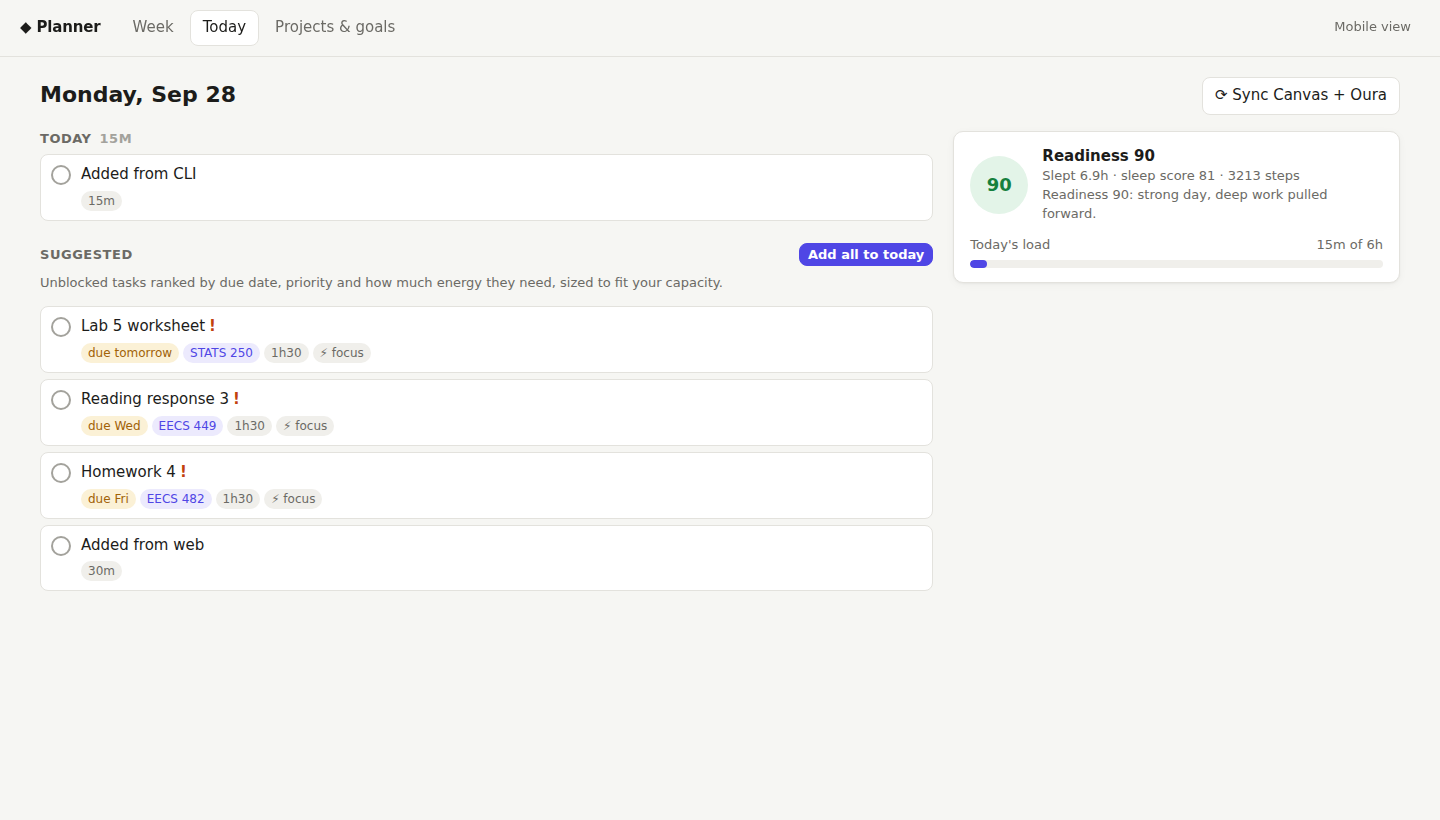
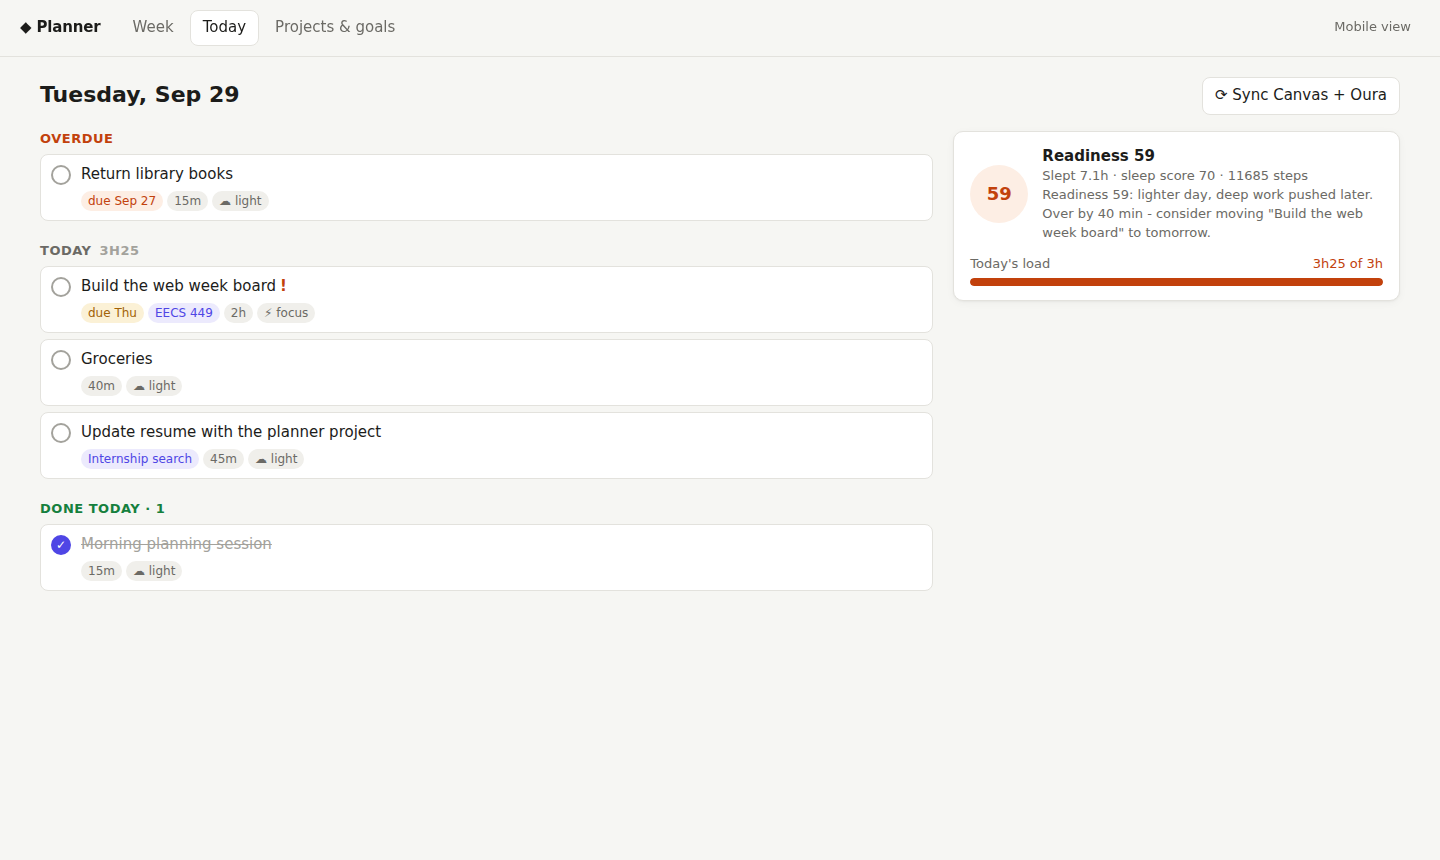
Add demo week, grader tour, overbooked-day tip

diff --git a/README.md b/README.md
@@ -1,19 +1,42 @@
-# Planner: a graph-based personal planner in Jac
+# Planner: a readiness-aware, graph-based planner in Jac
 
-EECS 449, Assignment 1. This is one planning tool with four parts that share a single backend:
+**EECS 449, Assignment 1.** A personal planner that knows *what blocks what* and *how much you can actually do today*. It has four parts built in Jac that share one backend:
 
 | Part | Where | What it's for |
 |---|---|---|
-| **Server** | `main.jac`, `services/` | Planning logic and persistent per-user graph storage, served as a REST API |
-| **Web** | `routes/` (`/`, `/today`, `/projects`) | Plan the week: drag tasks between days, edit dependencies, review projects and goals |
-| **Mobile** | `routes/Mobile*` (`/m`), Capacitor build | Check off today's tasks, quick add, see what's coming up and your readiness |
-| **CLI** | `cli/plan.jac`, `./plan` | Quick capture and daily use from the terminal |
-
-All four talk to the same server and share one plan (there is no login), so a task added from the terminal appears on the web board and your phone right away.
+| **Server** | `main.jac`, `services/` | All planning logic, as graph walkers served over REST, plus persistent storage |
+| **Web** | `routes/` (`/`, `/today`, `/projects`) | Plan the week: drag tasks between days, edit dependencies, track goals |
+| **Mobile** | `routes/Mobile*` (`/m`), Capacitor build | On the go: check off today, quick add, see what's next and your readiness |
+| **CLI** | `cli/plan.jac`, `./plan` | Fast capture and a daily plan without leaving the terminal |
 
 | Web: week board | Web: today | Mobile: today |
 |---|---|---|
 | ![Week board](docs/web-week.png) | ![Today](docs/web-today.png) | ![Mobile](docs/mobile-today.png) |
+
+## What makes it stand out
+
+- **It plans your day for you, sized to how you actually feel.** `PlanDay` reads your readiness score (Oura, or mock data) and sets the day's capacity: about 6h on a strong day, 5h on a normal day, 3h on a low one. It lists what's overdue and what's due, fills the rest with the best unblocked tasks, and pushes deep-focus work later when you're tired. If you've overbooked, it says so and names the task to move ("Over by 40 min, consider moving *Build the web week board* to tomorrow").
+- **Tasks know what they're waiting on.** "Record the demo video" can't start until "Build the web board" and "Polish mobile screens" are done. Blocked tasks are marked everywhere, *Next up* only shows what you can start right now, and a graph walk refuses links that would create a loop.
+- **The data model is a real graph, not a table.** Tasks → Projects → Goals are typed edges, so a goal's progress rolls up two hops. The logic is written as Jac walkers that traverse that graph.
+- **All four parts are one app.** Every client calls the same walkers. Add a task in the terminal, it's on the web board and your phone right away. Check it off on your phone, and `./plan today` shows it done. There's no sign-in: everything shares one plan.
+- **Each client is built for how you'd use it.** Web is for planning (a drag-and-drop week, a full editor, goals). Mobile is for doing (big tap targets, one-tap quick add, bottom tabs; phones get it automatically, and it builds as a native iOS/Android app). The CLI is for speed (`./plan add Groceries -o today -e low`, `./plan done 2`).
+- **Real-life inputs.** Canvas assignments become tasks, with the course as the project. Oura sleep and readiness drive the plan. Both work with realistic mock data out of the box, and syncing twice never creates duplicates.
+- **Reliable.** Data persists across restarts. There are 7 walker tests (`jac test`), plus browser tests of the whole web + mobile + CLI flow during development. Clear error messages come back from the server, and there's a one-command `./start.sh`.
+
+## 2-minute tour (for graders)
+
+```bash
+./start.sh                  # terminal 1: setup (first time) + server. Wait for "Server ready".
+./plan demo                 # terminal 2: loads a realistic week (you can also click "Load demo week" on the web)
+```
+
+1. **Terminal:** `./plan today`. You'll see today's plan with readiness, overdue items and the load vs. capacity, plus the *move this* hint if the day is overbooked. Then run `./plan next` (only unblocked tasks) and `./plan week`.
+2. **Web, http://localhost:8000:** the **Week** board. Drag a card to another day. Click *Record the demo video* to see the two tasks it waits on. Tick *Build the web week board* done, and the video task's blocker list shrinks.
+3. **Today** tab: the readiness card and load meter. If there are suggestions, *Add all to today* schedules them.
+4. **Projects & goals:** two goals with progress rolling up from their projects' tasks.
+5. **Phone:** open `http://<your-laptop-ip>:8000` on the same Wi-Fi (the address is printed by `./start.sh`), or click *Mobile view* on the web. Tick a task, add one with **+**, then run `./plan today` in the terminal to see both changes.
+
+`./plan demo` only replaces its own demo tasks, so it's safe to re-run for a fresh week.
 
 ## The idea
 
@@ -35,6 +58,10 @@ Walkers traverse that graph to answer planning questions:
 - **Progress rollups**: a goal's progress is counted two hops away (Goal ← Project ← Task).
 
 There is no login: every endpoint is a public walker (`walker:pub`), so all clients read and write one shared plan on the server. Everything persists across server restarts (in `.jac/data/`).
+
+| Web: task editor with "waits on" | Web: projects & goals | Mobile: upcoming |
+|---|---|---|
+| ![Editor](docs/web-editor.png) | ![Projects](docs/web-projects.png) | ![Upcoming](docs/mobile-upcoming.png) |
 
 ## Run it
 
@@ -88,7 +115,7 @@ The native shell opens straight into the mobile UI. The server allows cross-orig
 
 ```bash
 ./plan status                           # is the server up?
-./plan sync all                         # import Canvas assignments + Oura data (mock by default)
+./plan demo                             # load a realistic demo week (or: ./plan sync all for just Canvas + Oura)
 
 ./plan add Write server walkers -p "EECS 449" -d fri -P 1 -e high -t 120
 ./plan add Build CLI -p "EECS 449" -t 60
@@ -127,7 +154,7 @@ Canvas assignments become tasks, with the course as their project. Oura data bec
 ## Tests
 
 ```bash
-jac test          # walker-level tests: CRUD, dependencies, cycles, capacity, idempotent sync
+jac test          # walker tests: CRUD, dependencies, cycles, capacity, idempotent sync, demo data
 ```
 
 Tests run on a local test root and clear it first. They never touch real user data.
@@ -144,6 +171,7 @@ Every endpoint is `POST /walker/<Name>` with a JSON body (no auth header needed)
 | `NextActions`, `PlanDay`, `WeekView` | Planning views |
 | `AddProject`, `ListProjects`, `AddGoal`, `ListGoals` | Projects and goals with progress rollups |
 | `SyncCanvas`, `SyncOura`, `GetHealth` | Integrations |
+| `LoadDemo` | Load or refresh the demo week |
 
 Send `today: "YYYY-MM-DD"` (your local date) so "today" means your day, not the server's.
 
@@ -155,6 +183,7 @@ start.sh                   one-command setup + run
 services/models.jac        nodes, edges, view objects (the shared wire contract)
 services/planner.jac       task / planning / project / goal walkers
 services/integrations.jac  Canvas + Oura sync
+services/demo.jac          LoadDemo: the sample week behind ./plan demo
 components/api.cl.jac      client data layer: every web/mobile call to a walker goes through here
 components/*.cl.jac        shared UI: TaskRow, TaskEditor, HealthCard, SyncButton, Toast
 routes/Web*.cl.jac, WeekPage, TodayPage, ProjectsPage   web app
